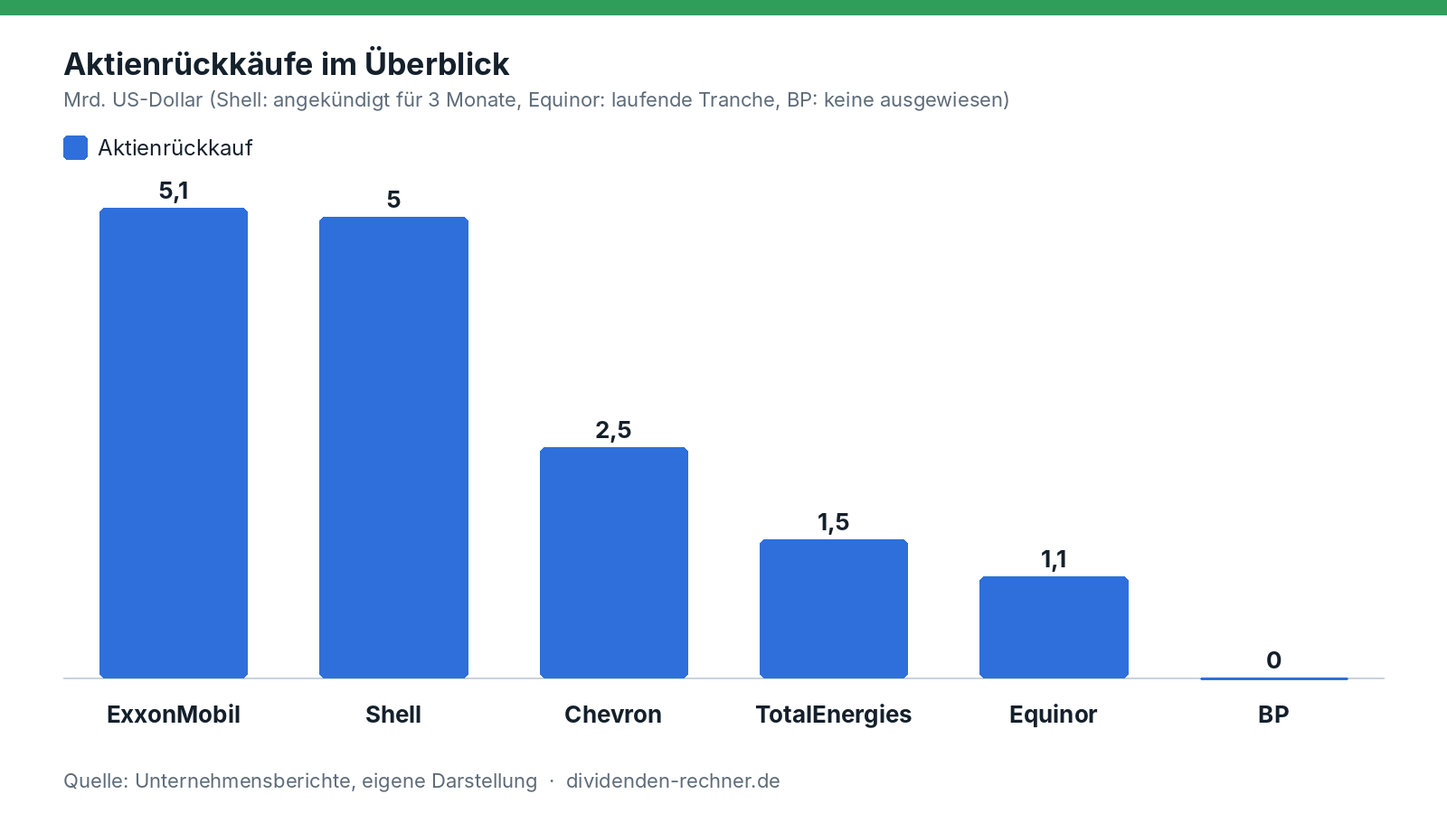
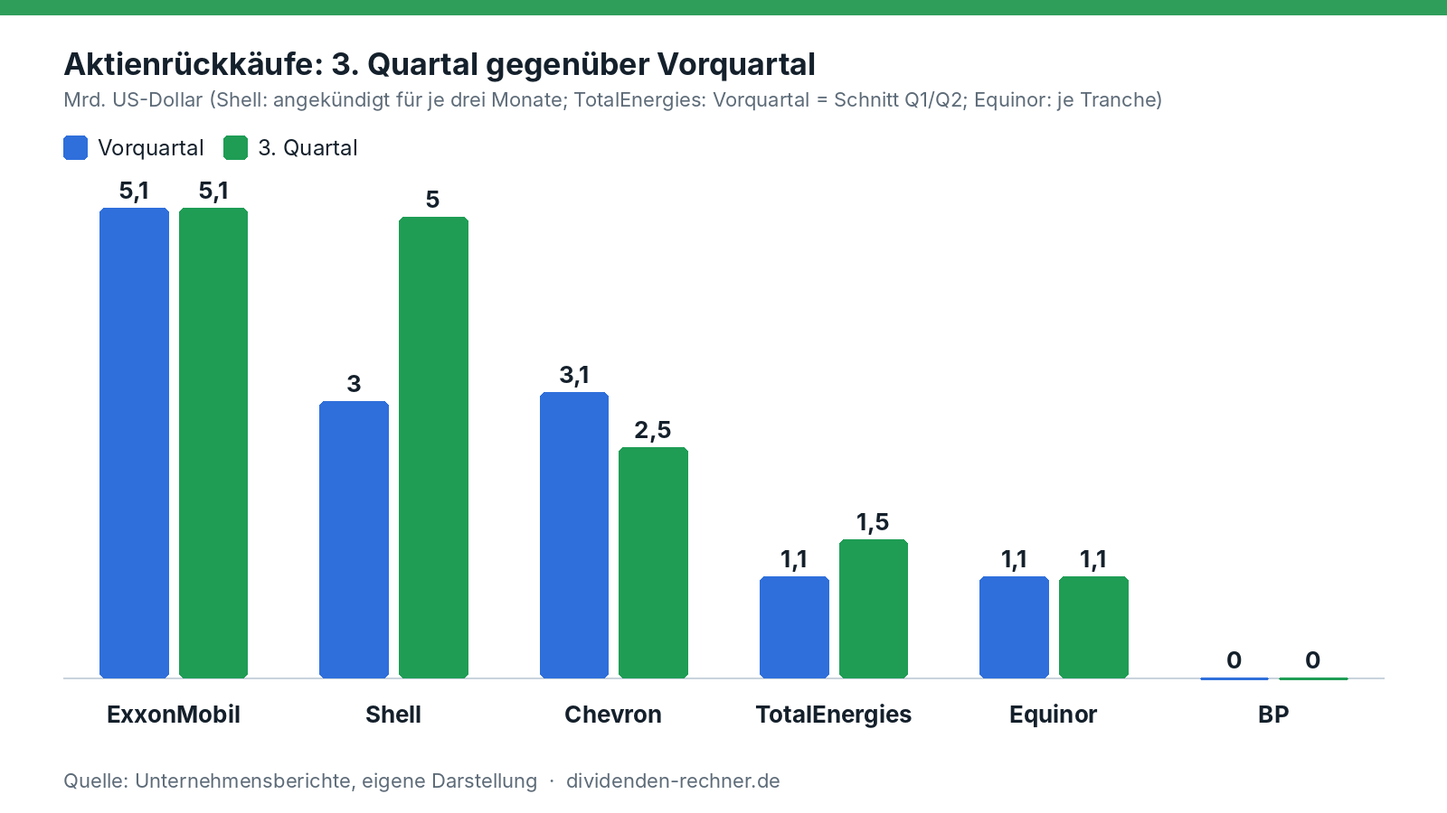
Big-Oil-Artikel: Vergleich in Prozent, neue Grafiken, lesbarere Texte
Claude-Session: https://claude.ai/code/session_019XvbgBLukfMhVVHAfy3Xu4

diff --git a/tools/ir_vergleich.py b/tools/ir_vergleich.py
@@ -134,7 +134,7 @@ def draw_vergleich(chart, path):
             t = ("%g" % val).replace(".", ","); tf = ia.font(26, True)
             d.text(((x0 + x1) / 2 - d.textlength(t, font=tf) / 2, (y0 - 36) if val >= 0 else (y1 + 6)), t, font=tf, fill=dark)
         lf = ia.font(26, True)
-        d.text((gx + gw * 0.36 - d.textlength(f, font=lf) / 2, bot + 24), f, font=lf, fill=dark)
+        d.text((gx + gw * 0.36 - d.textlength(f, font=lf) / 2, bot + 24 + (40 if vmin < 0 else 0)), f, font=lf, fill=dark)
     d.text((70, H - 50), "Quelle: Unternehmensberichte, eigene Darstellung  ·  dividenden-rechner.de", font=ia.font(22), fill=grey)
     im.save(path, "PNG", optimize=True)
     return True

diff --git a/content/magazin/79738968_2026-10-31/8459_1540-big-oil-kapitalverwendung-q3-2026.md b/content/magazin/79738968_2026-10-31/8459_1540-big-oil-kapitalverwendung-q3-2026.md
@@ -12,133 +12,111 @@ image_credit: "Foto: Jakub Pabis auf Unsplash"
 image_source: https://unsplash.com/photos/a-factory-with-pipes-and-a-sky-background-vOtSZd_8Af4?utm_source=dividenden-rechner&utm_medium=referral
 image_artist_url: https://unsplash.com/@jakubpabis?utm_source=dividenden-rechner&utm_medium=referral
 ---
-<!-- PRÜFEN: Zahlen stammen aus den Quartalsberichten (Shell, BP, TotalEnergies, Equinor als PDF, Exxon und Chevron aus den eigenen Artikeln und SEC-Meldungen). Mit * markierte Werte sind eigene Rechnungen. -->
-<!-- PRÜFEN: Chevron und Shell: gezahlte Dividendensumme steht nicht im ausgewerteten Material, deshalb nur Dividende je Aktie. Equinor: Gesamtsumme des Rückkaufprogramms 2026 und Zahl der Tranchen noch einmal im Bericht gegenlesen. -->
-<!-- PRÜFEN: Einstieg: Brent rund 117 und WTI rund 107 Dollar sind Redaktionsangaben ohne Quelle im Text. Andere Werte vom Samstag: Brent rund 113, WTI rund 103 (interne Abfrage, nicht veröffentlichen), WSJ im Marktüberblick 112 bis 113. Bitte Stichtag und Quelle klären. -->
-<!-- PRÜFEN: Einstieg: Aussage zu iranischem Öl, das per Schiff in die Märkte (auch in die USA) kommt und direkt in die Raffinerien geht, ist Redaktionsaussage, nicht aus den Berichten belegt. Russland: Benzinimporte aus Indien und Verlängerung des Benzinexportstopps laut Berliner Zeitung (nur die Meldungstitel gesehen, nicht den Volltext). -->
+<!-- PRÜFEN: Zahlen stammen aus den Quartalsberichten (Shell, BP, TotalEnergies, Equinor als PDF, Exxon und Chevron aus den SEC-Meldungen). Mit * markierte Werte sind eigene Rechnungen. -->
+<!-- PRÜFEN: Vorquartalswerte für ExxonMobil, Chevron und Shell stammen aus den Q2-Meldungen (Exxon: SEC 8-K, Zahlen per Auszug gelesen; Chevron: SEC 8-K; Shell: Pressemitteilung Q2). Exxon meldet für Q2 und Q3 identische Ausschüttungen (9,4 Mrd., davon 5,1 Rückkäufe): bitte im Original gegenlesen. -->
+<!-- PRÜFEN: Brent rund 117 und WTI rund 107 Dollar sind Redaktionsangaben ohne Quelle. Andere Werte vom Samstag: Brent rund 113, WTI rund 103 (interne Abfrage, nicht veröffentlichen), WSJ im Marktüberblick 112 bis 113. Stichtag und Quelle klären. -->
+<!-- PRÜFEN: Aussage zu iranischem Öl, das per Schiff in die Märkte kommt und direkt in die Raffinerien geht, ist Redaktionsaussage, nicht aus den Berichten belegt. Russland: Benzinimporte aus Indien und Verlängerung des Benzinexportstopps laut Berliner Zeitung (nur die Meldungstitel gesehen). -->
+<!-- PRÜFEN: Chevron und Shell: gezahlte Dividendensumme im Q3 steht nicht im ausgewerteten Material. Equinor: Rückkaufprogramm 2026 (bis zu 3 Mrd. USD) und Zahl der Tranchen noch einmal im Bericht gegenlesen. -->
 
 !!! kurz "Kurz gesagt"
     **Lage:** Der Iran-Krieg treibt den Ölpreis, der Ukraine-Konflikt den Dieselpreis. Brent liegt zuletzt bei rund 117, WTI bei rund 107 Dollar.
-    **Frage:** Was machen Exxon, Chevron, Shell, BP, TotalEnergies und Equinor mit ihren Gewinnen?
+    **Ergebnis:** Gegenüber dem Vorjahr verdienen die Konzerne deutlich mehr. Gegenüber dem Vorquartal ist das Bild gemischt: TotalEnergies +51 %, BP +49 %, Chevron −14 %, Equinor −11 %.
 
-    1. **Rückkäufe:** ExxonMobil gibt 5,1 Mrd. USD für Aktienrückkäufe aus, Shell kündigt neue 5,0 Mrd. USD an, Chevron verwendet 2,5 Mrd. USD. TotalEnergies hat 1,5 Mrd. USD eingesetzt, Equinor startet eine Tranche über bis zu 1,125 Mrd. USD.
-    2. **Schulden:** BP senkt die Nettoverschuldung in einem Quartal von 22,3 auf 13,9 Mrd. USD und kauft laut Präsentation keine Aktien zurück.
-    3. **Dividenden:** TotalEnergies hebt die Zwischendividende um 5,9 % auf 0,90 Euro, BP und Equinor zahlen die Dividende des Vorquartals unverändert weiter.
+    1. **Rückkäufe:** Nur Shell erhöht kräftig, von 3,0 auf 5,0 Mrd. USD (+67 %). ExxonMobil und Equinor bleiben unverändert, Chevron kürzt um 20 %, BP kauft nichts zurück.
+    2. **Schulden:** Sie sinken überall, am stärksten bei BP (−38 %), TotalEnergies (−30 %) und Chevron (−27 %).
+    3. **Dividenden:** ExxonMobil hebt um 3,9 % auf 1,07 USD, TotalEnergies um 5,9 % auf 0,90 Euro. Chevron und Equinor zahlen unverändert.
 
 ## Geopolitik treibt Öl und Diesel
 
 Der Iran-Krieg treibt den Ölpreis, der Ukraine-Konflikt den Dieselpreis. Brent kostet zuletzt rund 117 Dollar je Barrel, WTI rund 107 Dollar. Noch stärker als Rohöl verteuern sich Raffinerieprodukte wie Diesel und Heizöl.
 
-Beide Konflikte verstärken sich. In Russland haben ukrainische Angriffe Raffinerien zerstört. Das Land, sonst ein großer Exporteur von Raffinerieprodukten, muss Berichten zufolge Benzin aus Indien einführen und hat seinen Benzinexportstopp bis Ende Januar 2027 verlängert. Gleichzeitig kommt aus dem Iran wieder mehr Öl per Schiff auf den Markt, auch in den USA kommt es an. Weil die Lager weltweit auf einem Tiefstand sind, wie TotalEnergies schreibt, füllt dieses Öl keine Tanks auf. Es wird sofort in die Raffinerien gedrückt, die daraus Diesel und Heizöl machen. Das hält die Preise der Raffinerieprodukte hoch, und mit ihnen die Margen der Konzerne.
+Beide Konflikte verstärken sich. In Russland haben ukrainische Angriffe Raffinerien zerstört. Das Land, sonst ein großer Exporteur von Raffinerieprodukten, muss Berichten zufolge Benzin aus Indien einführen und hat seinen Benzinexportstopp bis Ende Januar 2027 verlängert. Gleichzeitig kommt aus dem Iran wieder mehr Öl per Schiff auf den Markt, auch in den USA kommt es an. Weil die Lager weltweit auf einem Tiefstand sind, füllt dieses Öl keine Tanks auf. Es geht sofort in die Raffinerien, die daraus Diesel und Heizöl machen. Das hält die Preise der Raffinerieprodukte hoch und mit ihnen die Margen der Konzerne.
 
-Daraus ergibt sich die Frage dieses Artikels: Machen die großen Energiekonzerne in den USA und vor allem in Europa tatsächlich mehr Gewinn? Wohin fließt das Geld? Und was schreiben sie dazu in ihren Berichten für das dritte Quartal, das Ende September zu Ende ging?
+Die Konzerne rechnen nicht mit schneller Entspannung. TotalEnergies sieht den Ölpreis auch zu Beginn des vierten Quartals über 100 Dollar, bei Raffinerieprodukten spricht der Konzern von einem „sehr volatilen“ Markt. Für LNG erwartet TotalEnergies im vierten Quartal im Schnitt über 14 Dollar je Mbtu. BP plant das vierte Quartal mit 110 Dollar je Barrel und rechnet weiter mit Störungen im Nahen Osten. Konzernchef Patrick Pouyanné spricht von historischen Raffineriemargen und einem „Bullenmarkt“ bei Gas (aus dem Englischen übersetzt).
 
-Die kurze Antwort: Ja, sie verdienen deutlich mehr, und das Geld geht in drei Richtungen. Es fließt in Aktienrückkäufe, in den Schuldenabbau und in neue Projekte, vor allem Gas und LNG. Die Dividenden steigen dagegen kaum.
+## Verdienen die Konzerne wirklich mehr?
 
-## Was die Konzerne selbst zu Preisen und Konflikt schreiben
+Gegenüber dem Vorjahr ja, und zwar kräftig. [Chevron](../chevron-q3-2026-ergebnisse/) hat den Nettogewinn von 3,54 auf 9,92 Mrd. Dollar fast verdreifacht (+180 %). BP verdient bereinigt 8,5 statt 2,2 Mrd. Dollar. Gegenüber dem zweiten Quartal ist das Bild gemischt:
 
-Im Schnitt lag Brent im dritten Quartal bei 97 US-Dollar je Barrel, nach 104 Dollar im zweiten Quartal (Shell). Was die Ergebnisse trug, waren vor allem die Margen im Raffineriegeschäft. Shell nennt für seine indikative Raffineriemarge 42 Dollar je Barrel nach 24 Dollar im Vorquartal, BP 46,7 Dollar. [ExxonMobil](../exxonmobil-q3-2026-quartalszahlen/) meldet eine Auslastung von 100 % an den Raffinerien an der US-Küste, [Chevron](../chevron-q3-2026-ergebnisse/) spricht von Rekorden in den US-Raffinerien. Bei Chevron stieg der Nettogewinn von 3,54 auf 9,92 Mrd. USD.
+![Gewinn im 3. Quartal gegenüber dem 2. Quartal](/assets/magazin/big-oil-kapitalverwendung-q3-2026-gewinn.png)
+*Eigene Darstellung nach den Quartalsberichten von Q2 und Q3 2026. Bereinigte Gewinne, bei BP der „Underlying Replacement Cost Profit“, bei Equinor der bereinigte Nettogewinn.*
 
-TotalEnergies beziffert die Folgen des Konflikts für die eigene Förderung im dritten Quartal auf rund 5 %, vor allem wegen begrenzter LNG-Exporte durch die Straße von Hormus. Ohne diesen Effekt wäre die Produktion gegenüber dem Vorjahr um mehr als 4 % gewachsen. Konzernchef Patrick Pouyanné spricht von historischen Raffineriemargen und einem „Bullenmarkt“ bei Gas (aus dem Englischen übersetzt).
+Der Grund liegt im Mix aus Förderung und Raffinerie. Der Brent-Preis fiel im Schnitt von 104 auf 97 Dollar je Barrel (−7 %), das drückt die Förderung. Dafür sprangen die Raffineriemargen: Shell nennt 42 statt 24 Dollar je Barrel, BP 46,7 Dollar. Wer viel verarbeitet und handelt, gewinnt. TotalEnergies meldet im Downstream mit 4,1 Mrd. Dollar einen Rekord, bei Shell steigt der Gewinn in Chemie und Produkten von 2,9 auf 3,9 Mrd. Dollar.
 
-Zum Beginn des vierten Quartals bleibe der Ölpreis über 100 Dollar, schreibt TotalEnergies. Der Markt für Raffinerieprodukte sei „sehr volatil“, die Lagerbestände seien weltweit auf einem Tiefstand. Für Gas erwartet der Konzern im vierten Quartal einen durchschnittlichen LNG-Verkaufspreis von über 14 Dollar je Mbtu. BP legt seinen Annahmen für das vierte Quartal einen Brent-Preis von 110 Dollar je Barrel zugrunde und rechnet weiter mit Störungen im Nahen Osten. Der aktuelle Preis liegt damit über dem Durchschnitt des dritten Quartals und über der BP-Annahme.
+[ExxonMobil](../exxonmobil-q3-2026-quartalszahlen/) legt bereinigt um 19 % zu (14,7 auf 17,5 Mrd. Dollar) und kommt an der US-Küste auf eine Auslastung von 100 %. Bei Chevron sinkt der bereinigte Gewinn von 12,0 auf 10,4 Mrd. Dollar, dazu kommen Rückstellungen von 160 Mio. Dollar und negative Timing-Effekte. Equinor steigert das bereinigte operative Ergebnis um 8 %, nach Steuern bleibt aber weniger übrig als im zweiten Quartal.
 
-Dieser Artikel stellt die sechs Konzerne nebeneinander. Es ist keine Kaufempfehlung.
+## Wohin fließt das Geld?
 
-## Cashflow und Investitionen
+Es gibt drei Wege: investieren, Schulden zurückzahlen, Geld an die Aktionäre geben. Gemessen am operativen Cashflow investiert Equinor mit 40 % am meisten, gefolgt von Shell mit 38 %. BP investiert nur 20 %.
 
-![Cashflow, Investitionen und Free Cashflow im 3. Quartal 2026](/assets/magazin/big-oil-kapitalverwendung-q3-2026-cashflow.png)
-*Eigene Darstellung nach den Quartalsberichten von ExxonMobil, Chevron, Shell, BP, TotalEnergies und Equinor. Definitionen weichen ab.*
+![Wie viel vom Cashflow fließt in Investitionen?](/assets/magazin/big-oil-kapitalverwendung-q3-2026-invest.png)
+*Eigene Darstellung nach den Quartalsberichten. Shell inklusive der Kosten der ARC-Übernahme, Equinor organische Investitionen.*
 
-| Konzern | Bereinigter Gewinn | Operativer Cashflow | Investitionen | Free Cashflow |
+| Konzern | Operativer Cashflow | Investitionen | Free Cashflow | Veränderung zum Vorquartal |
 |---|---|---|---|---|
-| ExxonMobil | 17,5 Mrd. USD | 25,7 Mrd. USD | 7,2 Mrd. USD | 19,1 Mrd. USD |
-| Shell | 10,8 Mrd. USD | 21,0 Mrd. USD | 7,9 Mrd. USD | 16,3 Mrd. USD |
-| Chevron | 10,4 Mrd. USD | 16,0 Mrd. USD | 4,0 Mrd. USD | 12,0 Mrd. USD |
-| BP | 8,5 Mrd. USD | 14,8 Mrd. USD | 3,0 Mrd. USD | 11,8 Mrd. USD* |
-| TotalEnergies | 9,1 Mrd. USD | 12,3 Mrd. USD | 3,3 Mrd. USD | 9,0 Mrd. USD* |
-| Equinor | 2,9 Mrd. USD | 8,1 Mrd. USD | 3,3 Mrd. USD | 5,2 Mrd. USD |
+| ExxonMobil | 25,7 Mrd. USD | 7,2 Mrd. USD | 19,1 Mrd. USD | +11 % |
+| Shell | 21,0 Mrd. USD | 7,9 Mrd. USD | 16,3 Mrd. USD | −7 % |
+| Chevron | 16,0 Mrd. USD | 4,0 Mrd. USD | 12,0 Mrd. USD | −34 % |
+| BP | 14,8 Mrd. USD | 3,0 Mrd. USD | 11,8 Mrd. USD* | +51 %* |
+| TotalEnergies | 12,3 Mrd. USD | 3,3 Mrd. USD | 9,0 Mrd. USD* | +25 % (Cashflow) |
+| Equinor | 8,1 Mrd. USD | 3,3 Mrd. USD | 5,2 Mrd. USD | −5 % |
 
-*Quellen: Quartalsberichte der Konzerne vom 29. und 30.10.2026. Bei BP und TotalEnergies eigene Rechnung (Cashflow minus Investitionen).*
+*Quellen: Quartalsberichte der Konzerne. Der Free Cashflow ist bei ExxonMobil, Chevron und Shell die Angabe der Konzerne und enthält auch weitere Zahlungsströme wie Verkaufserlöse. Bei BP und TotalEnergies eigene Rechnung (Cashflow minus Investitionen). Bei TotalEnergies zählt der Cashflow ohne Betriebskapital, bei Equinor der Cashflow vor Kapitalausschüttung.*
 
-Die Zahlen sind nicht eins zu eins vergleichbar. Bei BP ist der Gewinn der „Underlying Replacement Cost Profit“, bei TotalEnergies zählt der Cashflow ohne Veränderung des Betriebskapitals, bei Equinor der Cashflow nach gezahlten Steuern. Der Free Cashflow stammt bei ExxonMobil, Chevron und Shell von den Konzernen selbst und berücksichtigt auch weitere Zahlungsströme, etwa Verkaufserlöse, deshalb ergibt er nicht immer genau den Cashflow minus Investitionen. Bei Shell sind in den Investitionen die Kosten der Übernahme von ARC Resources enthalten. Bei Equinor entspricht die letzte Spalte dem „Netto-Cashflow vor Kapitalausschüttung“, die Investitionen sind mit 3,3 Mrd. USD die organischen, insgesamt waren es 3,8 Mrd. USD.
+## Aktienrückkäufe: nur Shell legt zu
 
-Auffällig ist Equinor: Dem bereinigten operativen Ergebnis von 12,35 Mrd. USD steht ein bereinigter Nettogewinn von nur 2,86 Mrd. USD gegenüber.
+Die Rückkäufe folgen nicht dem Gewinn. Shell erhöht kräftig, von 3,0 auf 5,0 Mrd. Dollar für die nächsten drei Monate (+67 %). ExxonMobil bleibt bei 5,1 Mrd. Dollar, Equinor bei 1,125 Mrd. Dollar je Tranche. Chevron kürzt von 3,1 auf 2,5 Mrd. Dollar (−20 %). TotalEnergies kauft im dritten Quartal für 1,5 Mrd. Dollar zurück, rund ein Drittel mehr als im Schnitt der ersten beiden Quartale (1,1 Mrd.). Für das vierte und das erste Quartal sind zusammen 2,5 Mrd. Dollar geplant, das sind 1,25 Mrd. je Quartal. BP kauft laut Präsentation nichts zurück.
 
-## Wer zahlt wie viel aus?
+![Aktienrückkäufe: 3. Quartal gegenüber Vorquartal](/assets/magazin/big-oil-kapitalverwendung-q3-2026-rueckkauf.png)
+*Eigene Darstellung nach den Quartalsberichten. Shell: angekündigter Rückkauf für je drei Monate. TotalEnergies: Vorquartal als Schnitt der Quartale eins und zwei.*
 
-| Konzern | Dividende je Aktie | Aktienrückkauf | Vorgabe des Konzerns |
-|---|---|---|---|
-| ExxonMobil | 1,07 USD | 5,1 Mrd. USD im Q3 (Dividenden 4,3 Mrd. USD) | keine Quote genannt |
-| Shell | 0,3906 USD | 5,0 Mrd. USD für die nächsten drei Monate | 40–50 % des operativen Cashflows im Zyklus |
-| Chevron | 1,78 USD | 2,5 Mrd. USD im Q3 | keine Quote genannt |
-| BP | 8,66 US-Cent | laut Präsentation keiner | Schuldenabbau hat Vorrang |
-| TotalEnergies | 0,90 Euro (Zwischendividende) | 1,5 Mrd. USD im Q3, danach 2,5 Mrd. USD für Q4 und Q1 2027 | 40 % des Cashflows |
-| Equinor | 0,39 USD | Tranche über bis zu 1,125 Mrd. USD, Programm 2026 bis zu 3 Mrd. USD | – |
+Gemessen am Free Cashflow ist Shell am großzügigsten und gibt 31 % für Rückkäufe aus. Es folgen ExxonMobil mit 27 %, Equinor mit 22 % und Chevron mit 21 %. TotalEnergies liegt bei 17 %, BP bei null.
+
+![Wie viel vom Free Cashflow geht in Aktienrückkäufe?](/assets/magazin/big-oil-kapitalverwendung-q3-2026-rueckkauf-fcf.png)
+*Eigene Darstellung nach den Quartalsberichten. Shell: angekündigter Rückkauf im Verhältnis zum Free Cashflow des Quartals. TotalEnergies: eigene Rechnung.*
+
+ExxonMobil schüttet insgesamt 9,4 Mrd. Dollar aus, davon 4,3 Mrd. als Dividende. Das sind rund 37 %* des operativen Cashflows und rund 49 %* des Free Cashflows.
+
+## Dividenden: kleine Schritte
+
+Die Dividenden steigen langsamer als die Gewinne. ExxonMobil hebt von 1,03 auf 1,07 Dollar je Aktie (+3,9 %), das ist das 44. Jahr in Folge mit einer Erhöhung. TotalEnergies zahlt eine dritte Zwischendividende von 0,90 Euro, 5,9 % mehr als im Vorjahr. BP zahlt 8,66 US-Cent je Aktie, wie im Vorquartal und rund 4 %* mehr als vor einem Jahr. Chevron (1,78 Dollar) und Equinor (0,39 Dollar) zahlen unverändert. Shell zahlt 0,3906 Dollar und verspricht eine Dividende, die jedes Jahr um etwa 4 % steigt.
+
+## Schulden: BP und TotalEnergies räumen auf
+
+Die Nettoverschuldung sinkt überall. BP drückt sie in einem Quartal von 22,3 auf 13,9 Mrd. Dollar (−38 %), TotalEnergies von 19,7 auf 13,8 Mrd. (−30 %), Chevron von 28,5 auf 20,7 Mrd. (−27 %). Bei Shell sind es 41,8 auf 39,7 Mrd. (−5 %), dort sind aber Leasingverbindlichkeiten eingerechnet, bei den anderen nicht. ExxonMobil hat die Nettoverschuldung seit Jahresbeginn um fast 11 Mrd. auf 22,1 Mrd. Dollar gesenkt*. Equinor meldet das Verhältnis von Nettoschulden zu eingesetztem Kapital: 3,8 % nach 10,4 % im Vorquartal.
+
+![Schuldenabbau im 3. Quartal](/assets/magazin/big-oil-kapitalverwendung-q3-2026-schulden.png)
+*Eigene Darstellung nach den Quartalsberichten. Shell inklusive Leasing. ExxonMobil und Equinor ohne vergleichbare Vorquartalswerte.*
+
+Bei BP ist die Lage damit noch nicht erledigt. Zusammen mit Hybridanleihen, Leasing und dem Vergleich zur Ölpest im Golf von Amerika kommt der Konzern auf Finanzverpflichtungen von 44,3 Mrd. Dollar nach 53,6 Mrd. im Vorquartal. BP selbst nennt sie weiter zu hoch. Die Nettoverschuldung von 13,9 Mrd. Dollar liegt aber schon unter dem Zielkorridor von 14 bis 18 Mrd. Dollar, den der Konzern für Ende 2027 genannt hat.
+
+## Wer setzt worauf?
+
+| Konzern | Schwerpunkt | Das steckt dahinter |
+|---|---|---|
+| ExxonMobil | Aktionäre und Raffinerie | Ausschüttung 9,4 Mrd. USD im Quartal, Rückkäufe unverändert, Struktureinsparungen von 16,9 Mrd. USD seit 2019 |
+| Chevron | Schuldenabbau und Förderung | Nettoschulden −27 %, Rückkäufe gekürzt, geplante Investitionen in Venezuela |
+| Shell | Rückkäufe, Kanada und LNG | Rückkauf +67 %, Übernahme von ARC Resources, Investitionsentscheidung für LNG Canada Phase 2, Investitionen 2026 von 23 bis 25 Mrd. USD |
+| BP | Bilanz | Nettoschulden −38 %, kein Rückkauf, Verkauf von Castrol (rund 6 Mrd. USD erwartet), Investitionen 13,5 bis 14,0 Mrd. USD |
+| TotalEnergies | Gas und LNG, dazu Schulden | Vier Investitionsentscheidungen (Zypern, Nigeria, Abu Dhabi, Aserbaidschan), kauft 4 GW Onshore-Erneuerbare von Shell, Investitionen rund 15 Mrd. USD |
+| Equinor | Förderwachstum | Förderziel 2026 von 3 auf rund 4 % Wachstum angehoben, Gaskraftwerk in den USA, Bay du Nord in Kanada, organisch rund 13 Mrd. USD |
 
 *Quellen: Quartalsberichte und Präsentationen der Konzerne. Keine Anlageberatung.*
 
-ExxonMobil schüttet insgesamt 9,4 Mrd. USD aus. Das sind rund 37 %* des operativen Cashflows von 25,7 Mrd. USD und rund 49 %* des Free Cashflows von 19,1 Mrd. USD. Der Konzern blickt auf 44 aufeinanderfolgende Jahre mit Dividendenerhöhung zurück.
+## Was sich aus den Zahlen ablesen lässt
 
-Bei Chevron entsprechen die 2,5 Mrd. USD Rückkäufe rund 21 %* des Free Cashflows von 12,0 Mrd. USD. Wie viel Dividende Chevron im Quartal tatsächlich gezahlt hat, steht im ausgewerteten Material nicht.
+Einen einfachen Zusammenhang zwischen Gewinn und Ausschüttung gibt es nicht. BP (+49 %) und TotalEnergies (+51 %) haben die größten Gewinnsprünge und erhöhen die Rückkäufe nicht oder kaum. Sie zahlen Schulden zurück (−38 % und −30 %). Chevron, dessen Gewinn fällt, kürzt die Rückkäufe um 20 %. Nur Shell erhöht sie deutlich, obwohl die Nettoverschuldung mit 39,7 Mrd. Dollar die höchste der sechs ist (mit Leasing gerechnet).
 
-Shell hat die Ausschüttungsquote am klarsten benannt, 40 bis 50 % des operativen Cashflows. Der angekündigte Rückkauf liegt mit 5,0 Mrd. USD höher als zuvor. Shell nennt außerdem eine Dividende, die jedes Jahr um etwa 4 % steigt.
+Auch die Investitionsquote erklärt wenig: Equinor und Shell investieren 40 und 38 % ihres Cashflows, kaufen aber 22 und 31 % des Free Cashflows zurück, BP investiert 20 % und kauft nichts zurück. Erklärungsstärker ist die Bilanz. Wo noch Altlasten drücken (BP), fließt das Geld in den Schuldenabbau. Wo die Bilanz aufgeräumt ist (Chevron, TotalEnergies, Equinor), laufen die Rückkäufe moderat weiter. Bei sechs Konzernen ist das ein Muster, keine Statistik.
 
-TotalEnergies verlangsamt den Rückkauf rechnerisch: 2,5 Mrd. USD für zwei Quartale sind 1,25 Mrd. USD* je Quartal, im dritten Quartal waren es 1,5 Mrd. USD. Die Zwischendividende von 0,90 Euro liegt 5,9 % über dem Vorjahr.
-
-Bei BP steht die Dividende bei 8,66 US-Cent je Aktie, im Vorquartal waren es ebenfalls 8,66 Cent, vor einem Jahr 8,32 Cent, also rund 4,1 %* mehr. Gezahlt hat BP im dritten Quartal 1,3 Mrd. USD Dividenden.
-
-Equinor zahlt unverändert 0,39 US-Dollar je Aktie und kauft weiter Aktien zurück.
-
-![Aktienrückkäufe im Überblick](/assets/magazin/big-oil-kapitalverwendung-q3-2026-rueckkauf.png)
-*Eigene Darstellung nach den Quartalsberichten. Shell: angekündigter Rückkauf für drei Monate, Equinor: laufende Tranche.*
-
-## Wer tilgt Schulden?
-
-| Konzern | Nettoverschuldung | Kennzahl |
-|---|---|---|
-| ExxonMobil | 22,1 Mrd. USD* | 34,3 Mrd. USD Bruttoschulden minus 12,2 Mrd. USD Barmittel |
-| Shell | 39,7 Mrd. USD (Vorquartal 41,8) | Gearing 16,6 % (ohne Leasing 2,7 %) |
-| Chevron | 20,7 Mrd. USD (Jahresende 2025: 34,5) | Net-Debt-Ratio 9,6 % |
-| BP | 13,9 Mrd. USD (Vorquartal 22,3) | zusätzlich 12,1 Mrd. USD Hybridanleihen und 13,3 Mrd. USD Leasing |
-| TotalEnergies | 13,8 Mrd. USD (Vorquartal 19,7) | Gearing 9,1 % (Vorquartal 13,1 %) |
-| Equinor | – | Nettoschulden zu eingesetztem Kapital 3,8 % (Vorquartal 10,4 %) |
-
-*Quellen: Quartalsberichte der Konzerne. Die Definitionen von „Nettoverschuldung“ unterscheiden sich: Bei Shell ist Leasing eingerechnet, bei BP und TotalEnergies nicht.*
-
-BP ist der Sonderfall. Die Nettoverschuldung ist in einem Quartal um 8,4 Mrd. USD gesunken, die sogenannten Finanzverpflichtungen (Nettoschulden, Hybridanleihen, Leasing und der Gulf-of-America-Vergleich) von 53,6 auf 44,3 Mrd. USD. Die Konzernleitung nennt sie weiterhin „zu hoch“. Mit 13,9 Mrd. USD liegt die Nettoverschuldung bereits unter dem Zielkorridor von 14 bis 18 Mrd. USD, den BP für Ende 2027 nennt. Die Präsentation nennt die Stärkung der Bilanz als erste Priorität und weist keinen Aktienrückkauf aus.
-
-TotalEnergies senkte das Gearing in einem Quartal um vier Prozentpunkte auf 9,1 %, Equinor von 10,4 auf 3,8 %.
-
-![Nettoverschuldung Ende September 2026](/assets/magazin/big-oil-kapitalverwendung-q3-2026-schulden.png)
-*Eigene Darstellung nach den Quartalsberichten. Shell inklusive Leasing, die übrigen ohne. Für Equinor liegt nur eine Quote vor.*
-
-## Wer stellt sich wie auf?
-
-| Konzern | Investitionen 2026 | Wohin das Geld strategisch geht | Besonderheit im Quartal |
-|---|---|---|---|
-| ExxonMobil | – | Raffinerien und Förderung, Struktureinsparungen 16,9 Mrd. USD seit 2019 | höchster Free Cashflow der Gruppe |
-| Chevron | 4,0 Mrd. USD im Q3 | Ausbau der Förderung, geplante Investitionen in Venezuela | Schulden in neun Monaten von 40,8 auf 33,5 Mrd. USD gesenkt |
-| Shell | 23–25 Mrd. USD (mit ARC), 2027/28: 20–22 Mrd. USD je Jahr | Kanada: ARC-Übernahme, Investitionsentscheidung für LNG Canada Phase 2 | Verkäufe von Randgeschäften (z. B. Jiffy Lube) |
-| BP | 13,5–14,0 Mrd. USD | Schulden und Hybridkapital abbauen, Portfolio verschlanken | Verkauf von Castrol (rund 6 Mrd. USD erwartet), Verkäufe insgesamt rund 8 Mrd. USD |
-| TotalEnergies | rund 15 Mrd. USD | Gas und LNG, vier Investitionsentscheidungen (Zypern, Nigeria, Abu Dhabi, Aserbaidschan) | übernimmt 4 GW Onshore-Erneuerbare von Shell, verkauft 50 % eines 1,2-GW-Portfolios an KKR |
-| Equinor | rund 13 Mrd. USD (organisch) | Förderung auf Rekordniveau, Gaskraftwerk in den USA, Bay du Nord (Kanada) | Förderziel für 2026 von 3 auf rund 4 % Wachstum angehoben |
-
-*Quellen: Quartalsberichte und Präsentationen der Konzerne. Bei ExxonMobil und Chevron stammen die Angaben aus den Meldungen vom 30.10.2026 und unseren Quartalsartikeln. Keine Anlageberatung.*
-
-## Was daraus folgt
-
-Die Konzerne wählen unterschiedliche Wege: Die Amerikaner und Shell bevorzugen große Rückkäufe, TotalEnergies und Equinor halten die Rückkäufe moderat und senken die Schulden, BP stellt die Bilanz vor die Aktionärsrendite. Für Dividendenanleger sind das unterschiedliche Signale. Eine hohe Rückkaufsumme hängt vom Cashflow und damit von den Margen im Raffineriegeschäft ab. Die Dividende selbst ist bei TotalEnergies gestiegen und bei BP und Equinor gleich geblieben. 
-Die Positionierung lässt sich in drei Sätzen zusammenfassen. ExxonMobil und Chevron schütten viel aus und bauen zugleich Schulden ab. Shell setzt auf Kanada und LNG und trennt sich von Randgeschäften, TotalEnergies setzt auf Gas und LNG und kauft nebenbei Erneuerbaren-Portfolios. BP stellt Bilanz und Portfolio an die erste Stelle. Equinor wächst in der Förderung und investiert zusätzlich in ein Gaskraftwerk in den USA.
-
-Eines fehlt in dieser Übersicht noch: die Aussicht auf den Ölpreis selbst. Alle Zahlen beschreiben das dritte Quartal. Ob die Raffineriemargen und der Ölpreis auf diesem Niveau bleiben, lässt sich aus den Berichten nicht ablesen. Das ist keine Empfehlung und keine Prognose, sondern der Vergleich der berichteten Zahlen.
+Für das vierte Quartal sind die Voraussetzungen besser als im Durchschnitt des dritten. Brent liegt mit rund 117 Dollar deutlich über den 97 Dollar des Quartalsdurchschnitts und über den 110 Dollar, mit denen BP plant. Ob die Konzerne ihr Geld dann anders verteilen, zeigen erst die nächsten Berichte. Das ist keine Kaufempfehlung und keine Prognose, sondern der Vergleich der berichteten Zahlen.
 
 ## Quellen
 
-- ExxonMobil, Quartalsbericht Q3 2026 (SEC-Meldung vom 30.10.2026)
-- Chevron, Quartalsbericht Q3 2026 (SEC-Meldung vom 30.10.2026)
-- Shell plc, Präsentation zum dritten Quartal 2026, 29.10.2026
+- ExxonMobil, Quartalsberichte Q2 und Q3 2026 (SEC-Meldungen, [Q2](https://www.sec.gov/Archives/edgar/data/0002115436/000211543626000006/livef8k2q26991.htm))
+- Chevron, Quartalsberichte Q2 und Q3 2026 (SEC-Meldungen, [Q2](https://www.sec.gov/Archives/edgar/data/0000093410/000009341026000162/a06302026ex9918-k.htm))
+- Shell plc, Präsentation zum dritten Quartal 2026 (29.10.2026) und [Pressemitteilung zum zweiten Quartal](https://www.investegate.co.uk/announcement/gnw/shell--shel/shell-plc-publishes-second-quarter-2026-press-/9694970)
 - BP, Präsentation zum dritten Quartal 2026
-- TotalEnergies, Pressemitteilung zum dritten Quartal 2026, 29.10.2026
+- TotalEnergies, Pressemitteilung zum dritten Quartal 2026 (29.10.2026)
 - Equinor, Quartalsbericht Q3 2026
-- Berliner Zeitung, Berichte zu Kraftstoffengpässen in Russland, Benzinimporten aus Indien und zur Verlängerung des Benzinexportstopps: [Benzinimporte aus Indien](https://www.berliner-zeitung.de/article/kraftstoffengpaesse-in-russland-moskau-greift-auf-benzin-importe-aus-indien-zurueck-bericht-10155342), [Exportstopp bis Ende Januar 2027](https://www.berliner-zeitung.de/article/russland-verlaengert-benzinexportstopp-bis-ende-januar-2027-10249784)
+- Berliner Zeitung, Berichte zu Kraftstoffengpässen in Russland: [Benzinimporte aus Indien](https://www.berliner-zeitung.de/article/kraftstoffengpaesse-in-russland-moskau-greift-auf-benzin-importe-aus-indien-zurueck-bericht-10155342), [Exportstopp bis Ende Januar 2027](https://www.berliner-zeitung.de/article/russland-verlaengert-benzinexportstopp-bis-ende-januar-2027-10249784)
